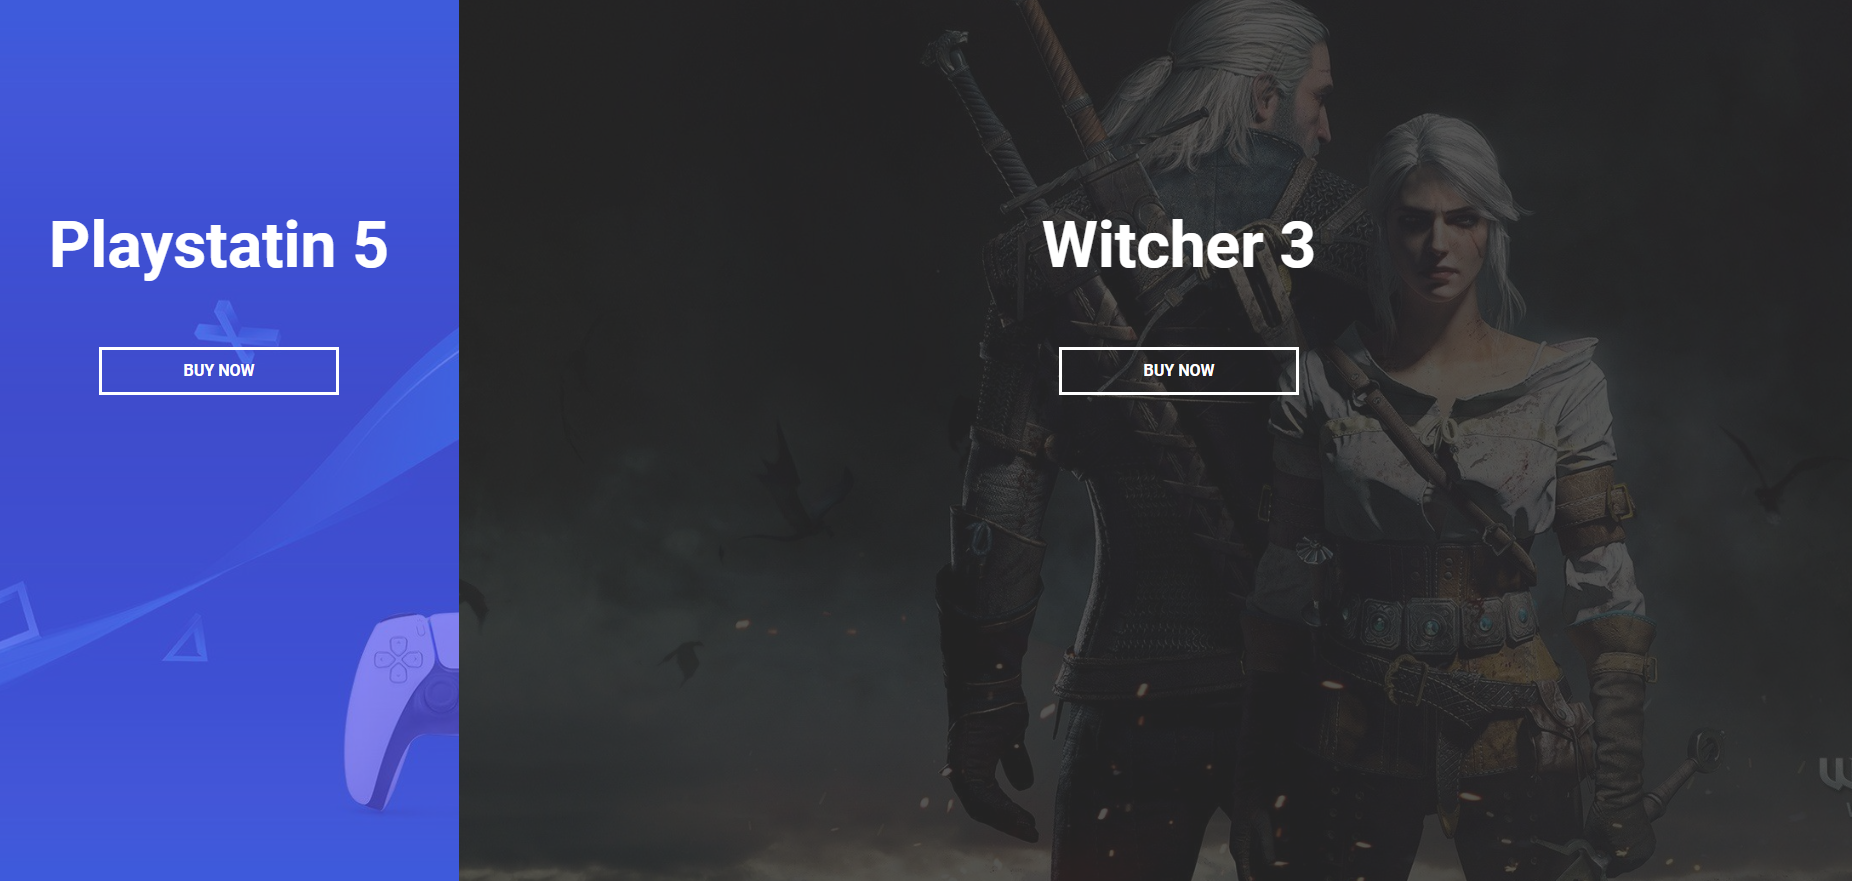
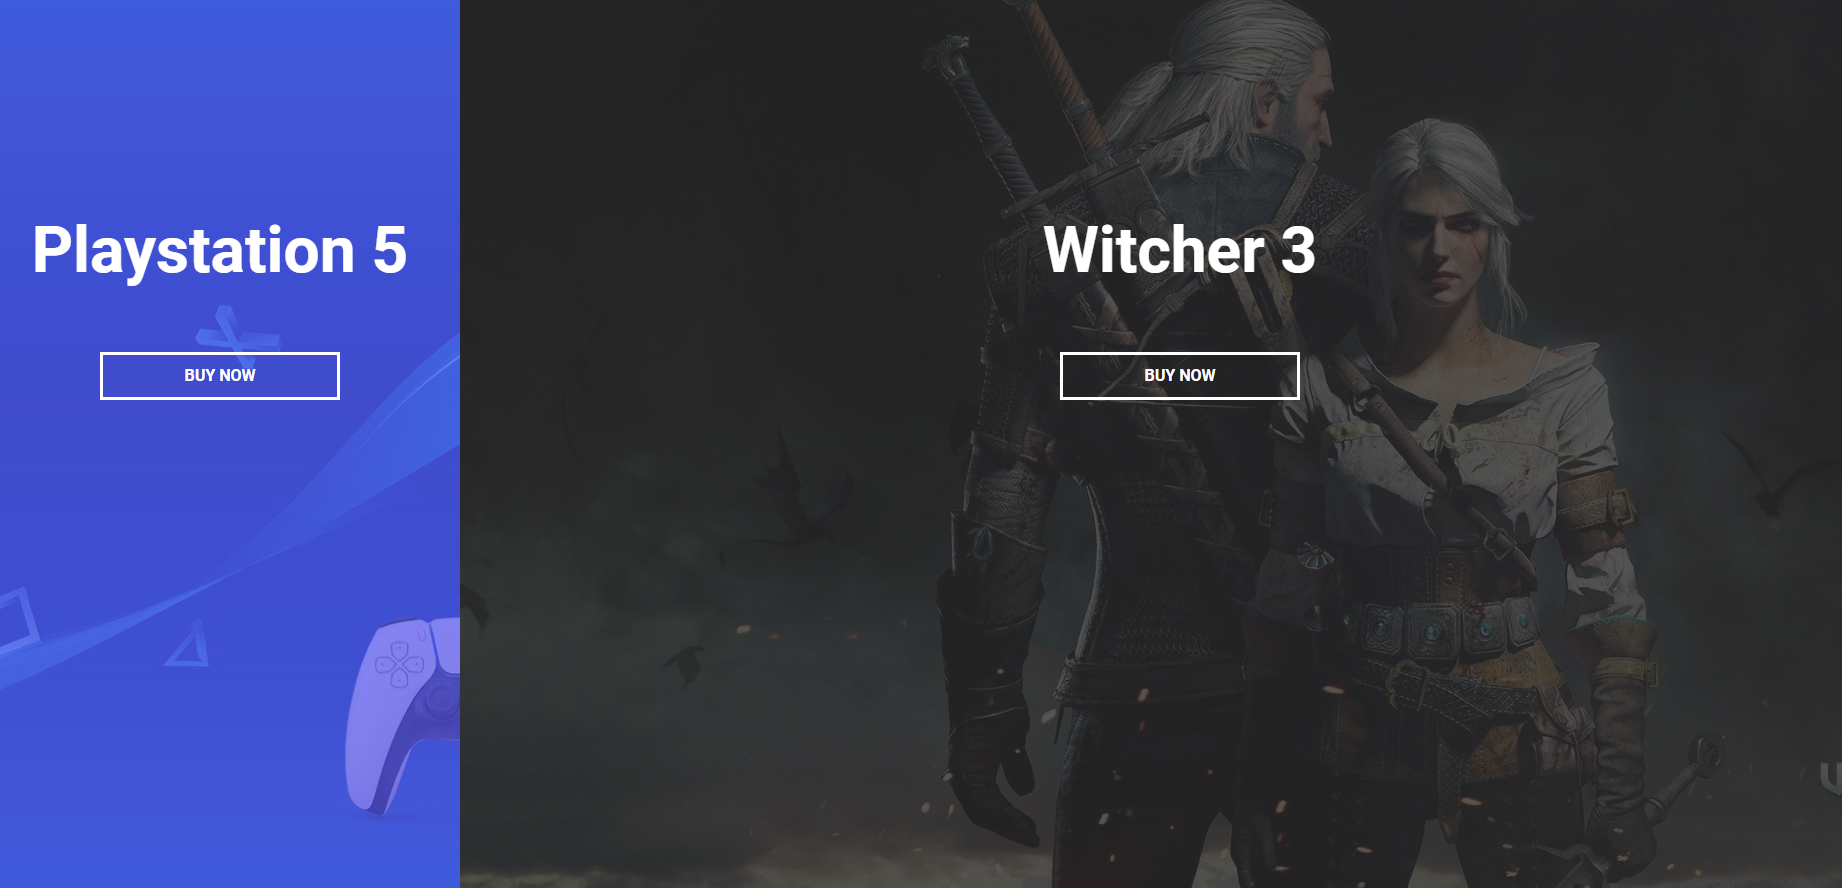
update img

diff --git a/index.html b/index.html
@@ -26,7 +26,7 @@
   <body>
     <div class="container">
       <div class="split left">
-        <h1>Playstatin 5</h1>
+        <h1>Playstation 5</h1>
         <a
           href="#"
           class="btn"
